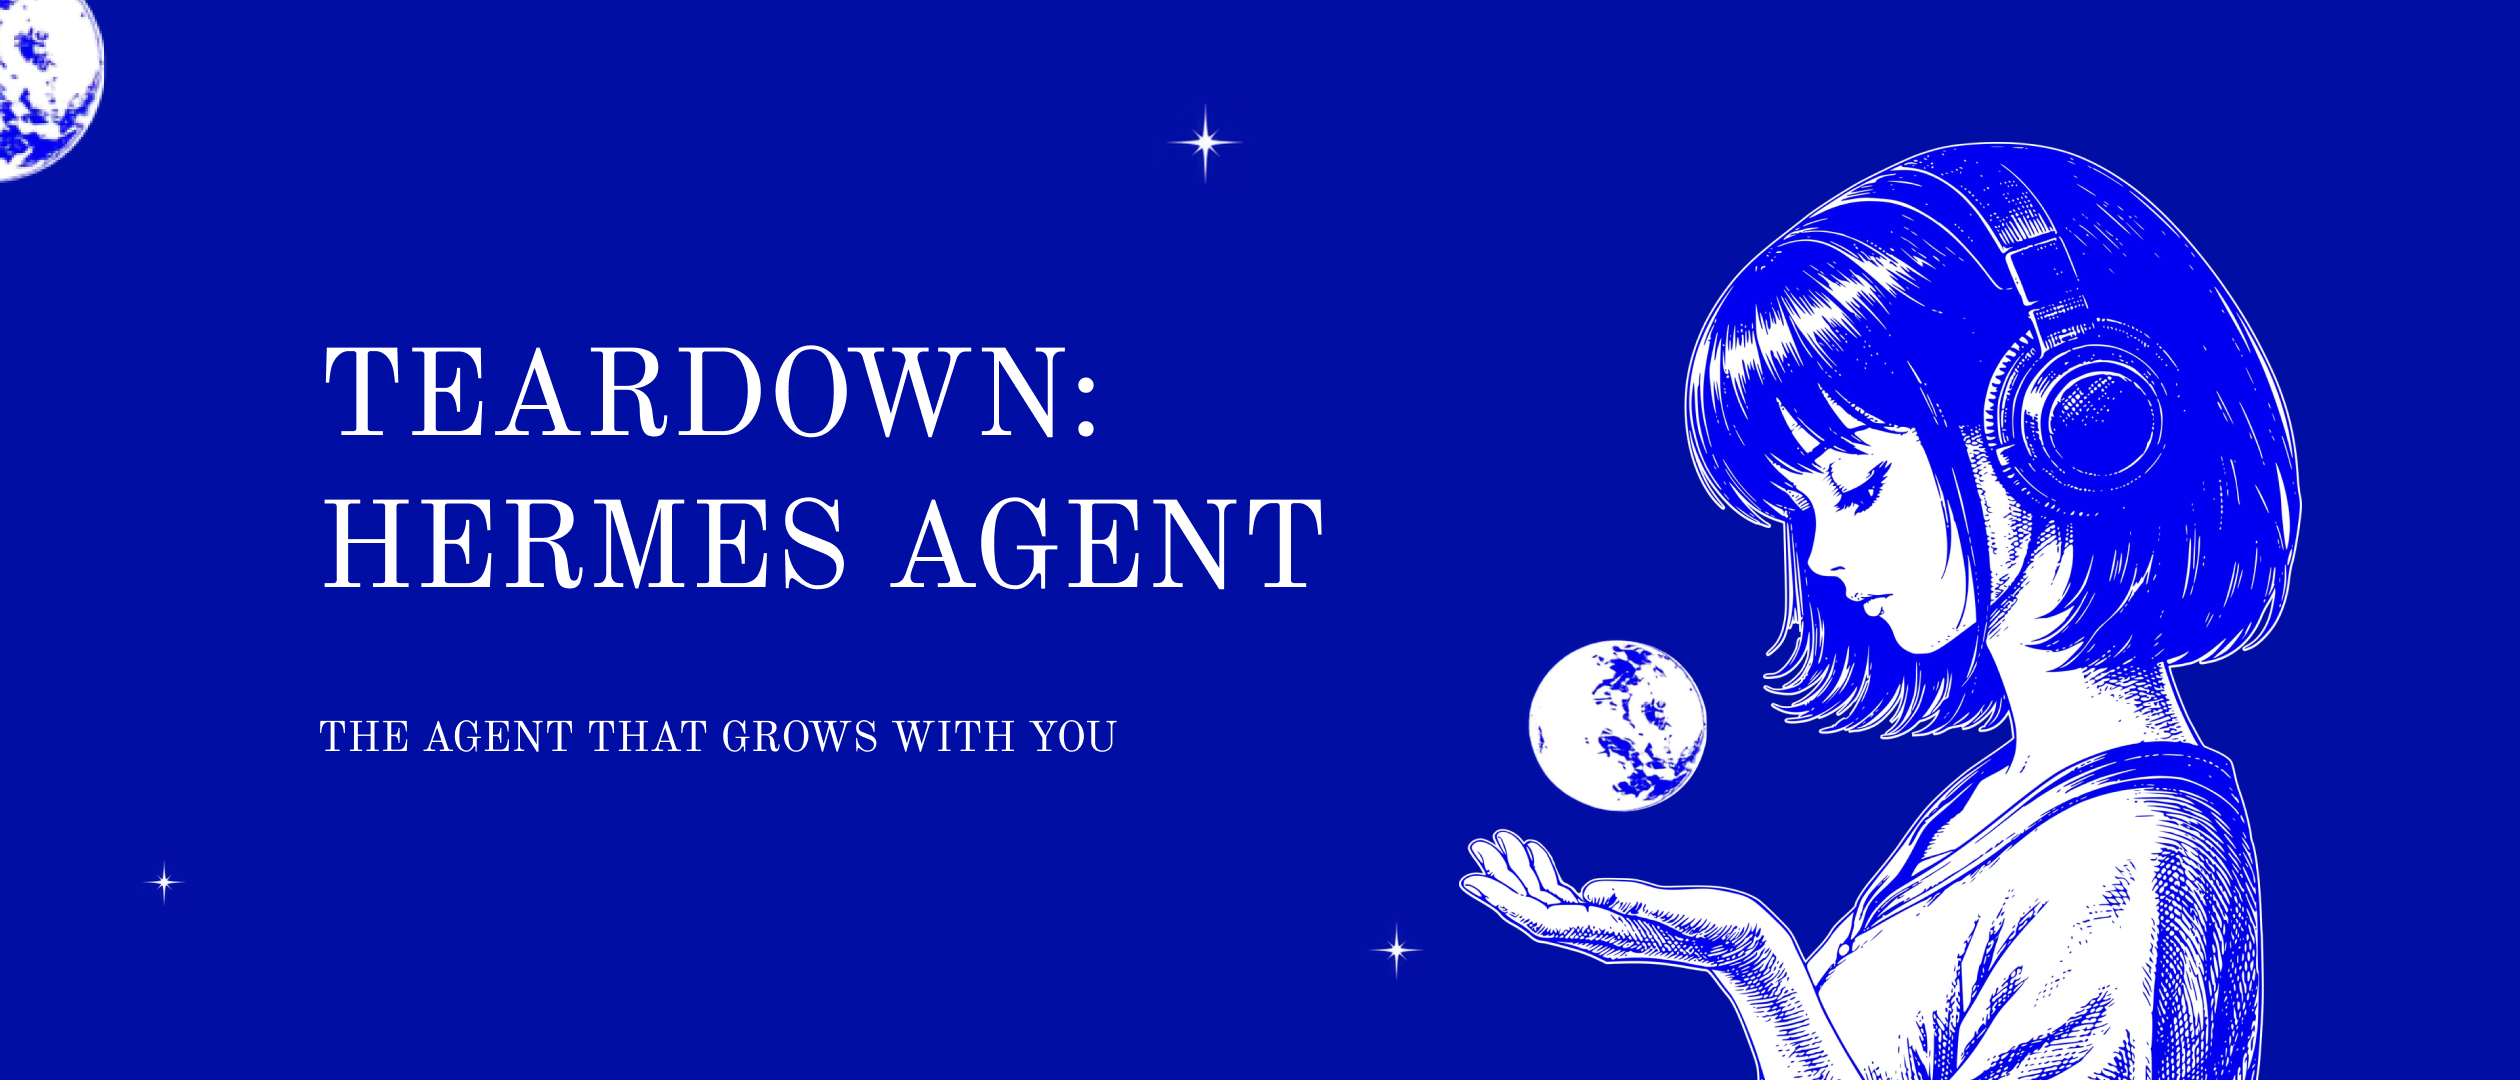
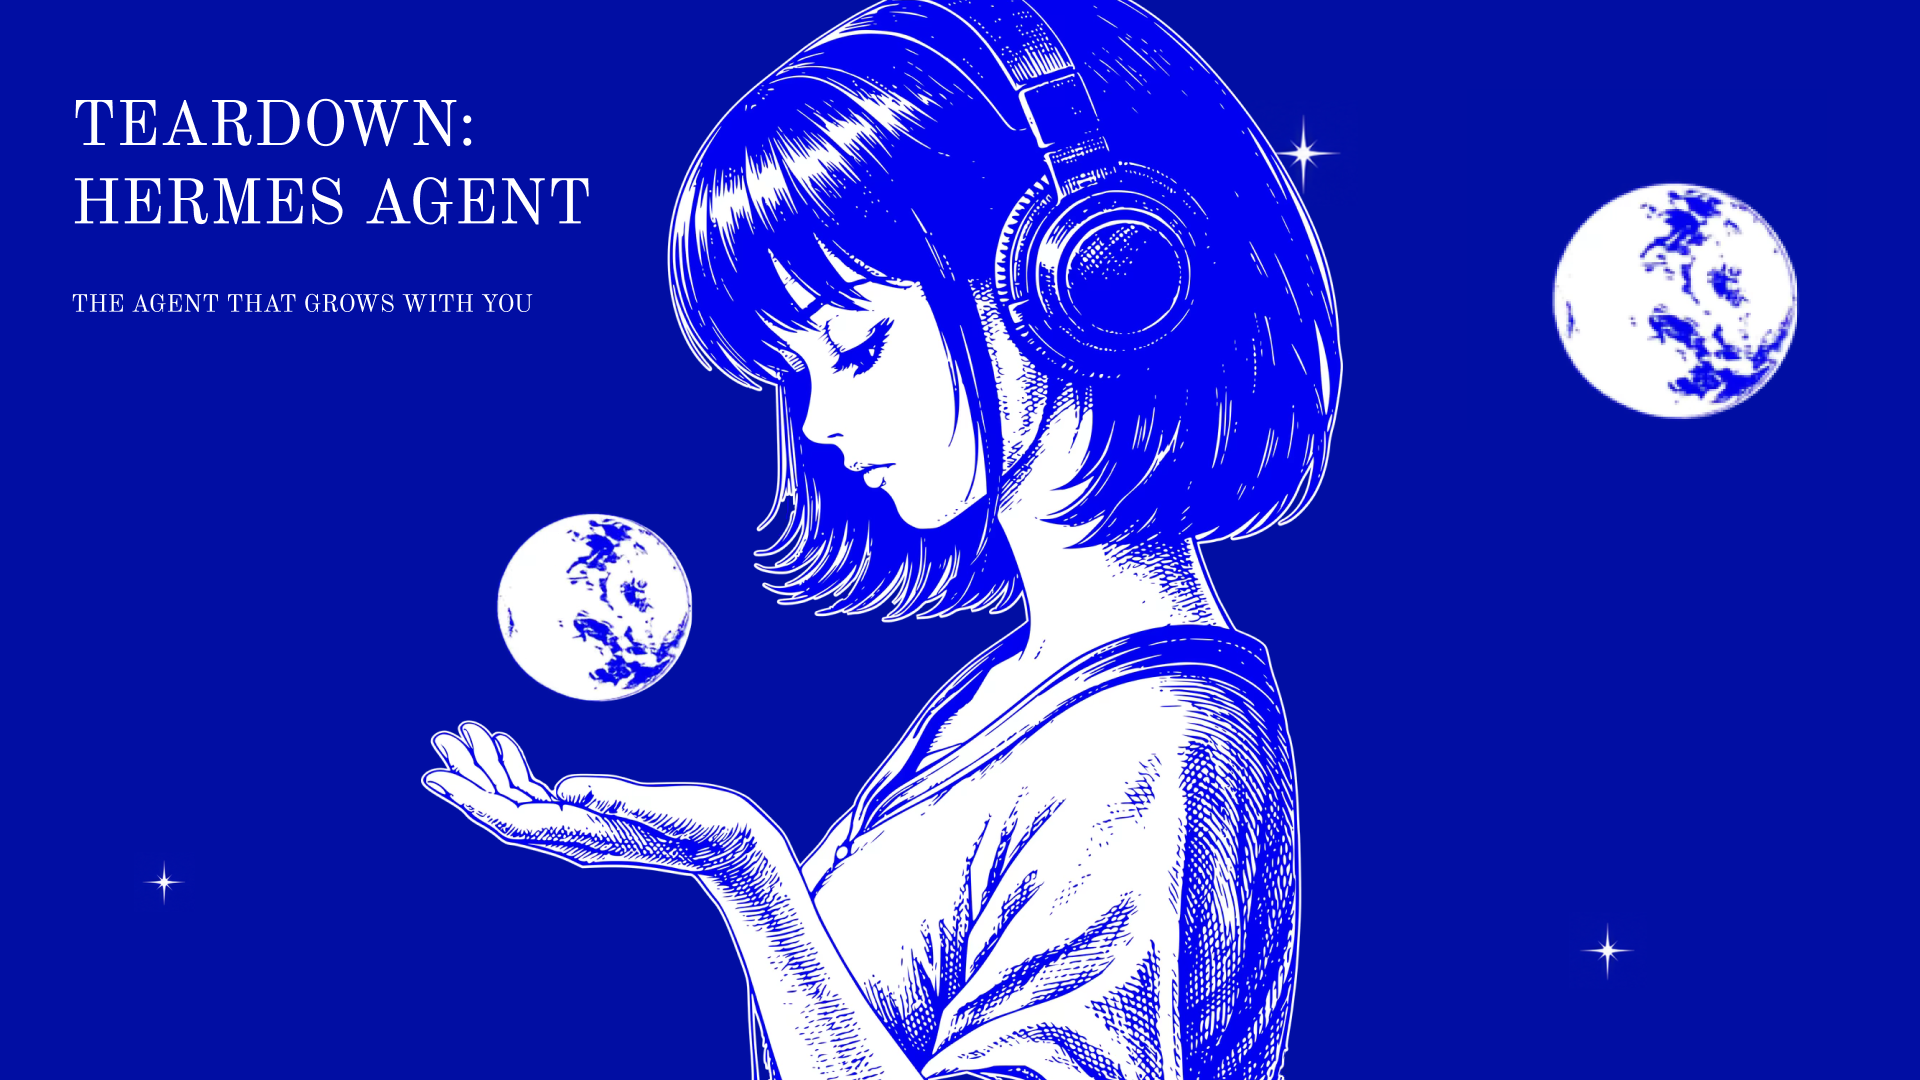
refactor: articles

diff --git a/src/Components/BlogReader.tsx b/src/Components/BlogReader.tsx
@@ -21,8 +21,7 @@ interface Entry {
   label: string;
   sublabel: string;
   content: string;
-  banner?: string;
-  image?: string;
+  image?: string; // the post's `banner`
   sortKey: string; // ISO date string or "0000-{sno}" for chapters
   isContextTable?: boolean;
 }
@@ -37,8 +36,7 @@ const loadEntry = (slug: string): Entry | null => {
       label: blog.frontmatter.tags || "Essay",
       sublabel: "",
       content: blog.content,
-      banner: blog.frontmatter.banner,
-      image: blog.frontmatter.image,
+      image: blog.frontmatter.banner,
       sortKey: blog.frontmatter.date,
       isContextTable:
         blog.frontmatter.isContextTable === "true" ||

diff --git a/scripts/prerender.js b/scripts/prerender.js
@@ -103,7 +103,7 @@ const metaFor = (data, content, urlPath) => {
   const description = data.description || excerpt(content) || "Blogs and DevLogs from Vishal R";
   const url = `${baseUrl}${urlPath}`;
   // Posts without their own image fall back to the branded logo card.
-  return { title, description, url, image: data.image || data.banner || "/og-default.png" };
+  return { title, description, url, image: data.banner || "/og-default.png" };
 };
 
 const injectHead = (html, meta) => {

diff --git a/src/Utils/functions.ts b/src/Utils/functions.ts
@@ -13,7 +13,7 @@ export const getBlogPostsSync = (): BlogPostMeta[] => {
     .map((slug) => {
       const post = loadMarkdownFileSync(slug);
       if (!post) return null;
-      let image = post.frontmatter.image;
+      let image = post.frontmatter.banner;
       if (!image) {
         const imgMatch = post.content.match(/<img.*?src=["'](.*?)["']/);
         image = imgMatch ? imgMatch[1] : undefined;

diff --git a/src/Posts/BlogPosts/Hobby-Lock-in.md b/src/Posts/BlogPosts/Hobby-Lock-in.md
@@ -2,8 +2,7 @@
 title: "Hobby Lock-in"
 date: "28 Jun 2026"
 tags: "Life"
-image: "/assets/hobbies.jpg"
-banner: "/assets/hobbies.jpg"
+banner: "/assets/hobby-lock-in.gif"
 publishRss: true
 ---
 
@@ -11,28 +10,11 @@ Do you feel the want of getting into all the hobbies out there? If yes, we are i
 
 Here is the list of immediate hobbies in mind
 
-**Physical**
+**Physical** : Running, Badminton, Skateboarding, Cycling, Gym & Table Tennis
 
-- Running
-- Badminton
-- Skateboarding
-- Cycling
-- Gym
-- Table Tennis
+**Creative** : Drawing, Video Graphy, Guitar & House Gardening
 
-**Creative**
-
-- Drawing
-- Video Graphy
-- Guitar
-- House Gardening
-
-**Intellectual**
-
-- Reading
-- Chess
-- Learning language
-- Writing
+**Intellectual** : Reading, Chess, Learning language & Writing
 
 Now, this is overwhelming to fit into my life with the time and capital I have. So I decided to keep 2, no, I can't be happy with one.
 Starting with physical. Badminton is staying for sure. The second one, I want to go cycling and skateboarding. A big but on that was I ran 2 marathons, and I love the concept of it. They don't care who comes first or last; you get a medal and appreciation for completion. Isn't that how life should be? And I got a good running buddy too. Now I only play table tennis in the office. I like it, I got a cool racket. I'm not considering it a full-fledged hobby, but I will keep smashing & skining in the office. Finally, the gym was out of the list even before it started. I know I gain and all, but it's no more fun.

diff --git a/src/Posts/BlogPosts/Teardown-Hermes-Agent.md b/src/Posts/BlogPosts/Teardown-Hermes-Agent.md
@@ -4,7 +4,7 @@ date: "14 July 2026"
 isTech: true
 isContextTable: true
 tags: "Devlog"
-image: "/assets/hermes-agent.png"
+banner: "/assets/hermes-agent.png"
 ---
 
 **Hermes** is an open-source, self-hostable AI agent: a personal, always-available assistant that you run and own instead of renting from a closed platform. You can talk to it from a terminal, a desktop app, an API, or messaging platforms such as Telegram, Slack, WhatsApp, and email. It keeps durable memories, can search earlier conversations, learns reusable procedures as skills, and can run scheduled jobs such as a daily briefing without waiting for you to send the first message.

diff --git a/src/Posts/About/life-at-conde-nast.md b/src/Posts/About/life-at-conde-nast.md
@@ -2,7 +2,7 @@
 title: "Life at Conde Nast"
 sno: "1"
 date: "30 Jan 2026"
-image: "/assets/conde-nast.jpeg"
+banner: "/assets/conde-nast.jpeg"
 ---
 
 It was 2023, Me being in a new city, Bengaluru, nearing the end of the startup I was working on. Starting to apply for full time role during a time when top companies were pausing interviews. Got a call from Conde Nast for an interview for which I was shortlisted months back. Gave my 3 rounds of interview, this must be the coolest and most casual interview I gave. Conde Nast came into my life when I needed it exactly.

diff --git a/src/Posts/BlogPosts/aa-hackathon.md b/src/Posts/BlogPosts/aa-hackathon.md
@@ -1,9 +1,8 @@
 ---
 title: "Agentic AI Hackathon by google cloud"
 date: "28 July 2025"
-image: "https://github.com/vishal206/personal-site-images/blob/main/aa-day-hackathon-2025.png?raw=true"
 banner: "https://github.com/vishal206/personal-site-images/blob/main/aa-day-hackathon-2025.png?raw=true"
-tags: "Tech"
+tags: "Devlog"
 isTech: true
 ---
 

diff --git a/src/Posts/BlogPosts/Kamome-Diner.md b/src/Posts/BlogPosts/Kamome-Diner.md
@@ -1,7 +1,7 @@
 ---
 title: "Kamome Diner"
 date: "31 May 2026"
-image: "/assets/Kamome-Diner.png"
+banner: "/assets/Kamome-Diner.png"
 tags: "Movie"
 publishRss: true
 description: "A slow, quiet Japanese film set in Finland — and somehow, that's all it needs. My thoughts on Kamome Diner, a movie with no plot and all the heart."

diff --git a/src/Posts/BlogPosts/Proof-That-Even-I-Can-Stick-to-a-Routine.md b/src/Posts/BlogPosts/Proof-That-Even-I-Can-Stick-to-a-Routine.md
@@ -1,7 +1,6 @@
 ---
 title: "Proof That Even I Can Stick to a Routine"
 date: "15 Nov 2025"
-image: "https://github.com/vishal206/personal-site-images/blob/main/morning-routine.png?raw=true"
 banner: "https://github.com/vishal206/personal-site-images/blob/main/morning-routine.png?raw=true"
 tags: "Life"
 isTech: true

diff --git a/src/Posts/BlogPosts/time-money-life.md b/src/Posts/BlogPosts/time-money-life.md
@@ -1,7 +1,6 @@
 ---
 title: "Time. Money. Life."
 date: "14 July 2025"
-image: "https://github.com/vishal206/personal-site-images/blob/main/time-money-life-profile.jpg?raw=true"
 banner: "https://github.com/vishal206/personal-site-images/blob/main/time-money-life-profile.jpg?raw=true"
 tags: "Life"
 isTech: true

diff --git a/src/Posts/BlogPosts/Open-Source-India-2025.md b/src/Posts/BlogPosts/Open-Source-India-2025.md
@@ -1,9 +1,8 @@
 ---
 title: "Open Source India 2025"
 date: "07 Dec 2025"
-image: "https://github.com/vishal206/personal-site-images/blob/main/osi-cover.png?raw=true"
 banner: "https://github.com/vishal206/personal-site-images/blob/main/osi-cover.png?raw=true"
-tags: "Tech"
+tags: "Devlog"
 isTech: true
 ---
 

diff --git a/src/Posts/BlogPosts/Its-a-Wonderful-Life.md b/src/Posts/BlogPosts/Its-a-Wonderful-Life.md
@@ -1,7 +1,6 @@
 ---
 title: "It’s a Wonderful Life"
 date: "01 Feb 2026"
-image: "https://www.themoviedb.org/t/p/w1280/bSqt9rhDZx1Q7UZ86dBPKdNomp2.jpg"
 banner: "https://www.themoviedb.org/t/p/w1280/bSqt9rhDZx1Q7UZ86dBPKdNomp2.jpg"
 tags: "Movie"
 publishRss: true
